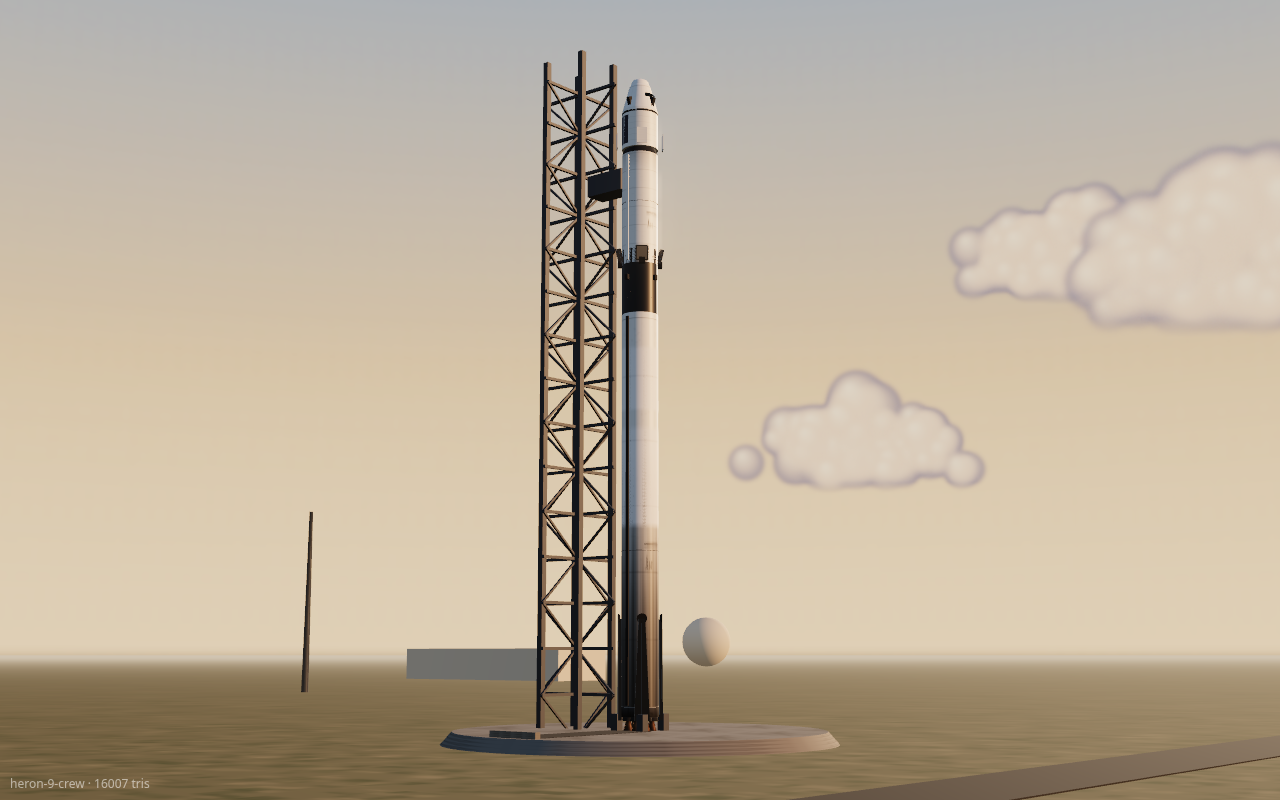
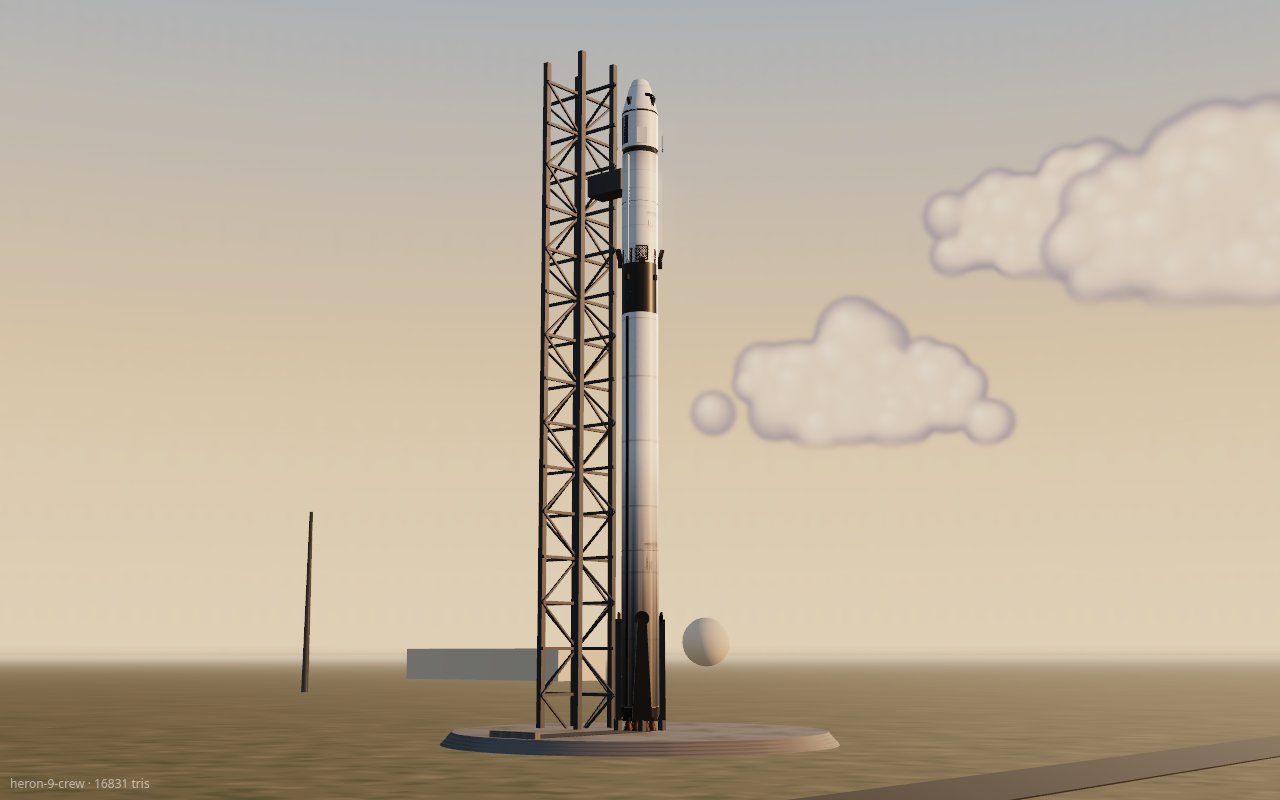
art plan #1-3: grid fins readable when backlit (metalness 0.65 + warm emissive floor), 2x cloud texture / higher min elevation, re-render heron, sparrow, catch-tower, payload, colossus heroes + backlit grid-fin check

diff --git a/gfx/vehicles/hero.html b/gfx/vehicles/hero.html
@@ -25,18 +25,18 @@ function skyTex(seed = 3) { const W = 1024, H = 512, c = document.createElement(
   const hz = x.createLinearGradient(0, H * 0.43, 0, H * 0.52); hz.addColorStop(0, 'rgba(255,220,180,0)'); hz.addColorStop(1, 'rgba(255,214,170,0.7)'); x.fillStyle = hz; x.fillRect(0, H * 0.43, W, H * 0.09);
   const t = new THREE.CanvasTexture(c); t.mapping = THREE.EquirectangularReflectionMapping; t.colorSpace = THREE.SRGBColorSpace; return t; }
 // cumulus billboards (crisp, high-res, lit tops / shaded bases) placed around the horizon
-function cloudTex(seed) { const W = 512, H = 220, c = document.createElement('canvas'); c.width = W; c.height = H; const x = c.getContext('2d'); let s = seed; const r = () => (s = (s * 16807) % 2147483647) / 2147483647;
+function cloudTex(seed) { const W = 1024, H = 440, S2 = 2, c = document.createElement('canvas'); c.width = W; c.height = H; const x = c.getContext('2d'); let s = seed; const r = () => (s = (s * 16807) % 2147483647) / 2147483647;
   // connected cumulus: many small puffs gaussian-distributed along a flat base, blurred; sunlit tops, blue-grey shaded bases
   const g2 = () => (r() + r() + r() - 1.5) / 1.5, puffs = [], base = H * 0.8;
-  for (let i = 0; i < 90; i++) { const px = W / 2 + g2() * W * 0.36, ht = 1 - Math.abs(px - W / 2) / (W * 0.5), rr = 10 + r() * 26 * ht + 6; puffs.push([px, base - rr * 0.6 - r() * ht * H * 0.45, rr]); }
-  x.filter = 'blur(3px)';
+  for (let i = 0; i < 90; i++) { const px = W / 2 + g2() * W * 0.36, ht = 1 - Math.abs(px - W / 2) / (W * 0.5), rr = (10 + r() * 26 * ht + 6) * S2; puffs.push([px, base - rr * 0.6 - r() * ht * H * 0.45, rr]); }
+  x.filter = 'blur(5px)'; // plan #2: 2x texture + proportional blur, no grain on 2 km sprites
   for (const [px, py, rr] of puffs) { x.fillStyle = 'rgba(128,124,146,0.9)'; x.beginPath(); x.arc(px, py, rr, 0, 7); x.fill(); }
   for (const [px, py, rr] of puffs) { const g = x.createRadialGradient(px - rr * 0.3, py - rr * 0.45, 0, px, py, rr); g.addColorStop(0, 'rgba(255,232,200,1)'); g.addColorStop(0.55, 'rgba(240,206,176,0.7)'); g.addColorStop(1, 'rgba(240,206,176,0)'); x.fillStyle = g; x.beginPath(); x.arc(px, py, rr, 0, 7); x.fill(); }
-  x.filter = 'none'; x.globalCompositeOperation = 'destination-out'; const cut = x.createLinearGradient(0, base - 6, 0, base + 10); cut.addColorStop(0, 'rgba(0,0,0,0)'); cut.addColorStop(1, 'rgba(0,0,0,1)'); x.fillStyle = cut; x.fillRect(0, base - 6, W, H - base + 6);
+  x.filter = 'none'; x.globalCompositeOperation = 'destination-out'; const cut = x.createLinearGradient(0, base - 12, 0, base + 20); cut.addColorStop(0, 'rgba(0,0,0,0)'); cut.addColorStop(1, 'rgba(0,0,0,1)'); x.fillStyle = cut; x.fillRect(0, base - 12, W, H - base + 12);
   const t = new THREE.CanvasTexture(c); t.colorSpace = THREE.SRGBColorSpace; return t; }
 const clouds = new THREE.Group(); scene.add(clouds);
 { let s = 5; const r = () => (s = (s * 16807) % 2147483647) / 2147483647; for (let i = 0; i < 26; i++) { const sp = new THREE.Sprite(new THREE.SpriteMaterial({ map: cloudTex(11 + i * 7), transparent: true, depthWrite: false, fog: false, opacity: 0.9 }));
-  const a = r() * Math.PI * 2, R = 3500 + r() * 3000, w = 700 + r() * 1300; sp.scale.set(w, w * 220 / 512, 1); sp.position.set(Math.cos(a) * R, R * Math.tan((3 + r() * 14) * Math.PI / 180), Math.sin(a) * R); sp.renderOrder = -1; clouds.add(sp); } }
+  const a = r() * Math.PI * 2, R = 3500 + r() * 3000, w = 1000 + r() * 1200; sp.scale.set(w, w * 440 / 1024, 1); sp.position.set(Math.cos(a) * R, R * Math.tan((6 + r() * 12) * Math.PI / 180), Math.sin(a) * R); sp.renderOrder = -1; clouds.add(sp); } }
 const sky = skyTex(); scene.background = sky; scene.environment = GX.envTexture(); scene.environmentIntensity = 0.45; // game env, dimmed: fill without flattening
 const hemi = new THREE.HemisphereLight(0xbfd4f0, 0x5a4a38, 0.35); scene.add(hemi);
 const key = new THREE.DirectionalLight(0xffc48a, 4.2); scene.add(key); scene.add(key.target); // golden-hour key

diff --git a/gfx/vehicles/kit.js b/gfx/vehicles/kit.js
@@ -14,8 +14,8 @@ export function mat(key) {
     case 'paint': { const [soot, top] = (arg || '0,0').split(',').map(Number); m = new P({ map: T.paint({ soot, sootTop: top }), roughness: 0.45, metalness: 0.0, clearcoat: 0.3, clearcoatRoughness: 0.35 }); break; }
     case 'silver': m = new S({ map: T.paint({ base: '#c9ccd0', rings: 8 }), roughness: 0.35, metalness: 0.7 }); break;
     case 'carbon': m = new P({ map: T.carbon(), color: 0x3c3c40, roughness: 0.5, metalness: 0.1, clearcoat: 0.6, clearcoatRoughness: 0.3 }); break; // clearcoat: legs catch a highlight against the dark interstage
-    case 'ti': m = new S({ color: 0xa8a29a, roughness: 0.55, metalness: 1, alphaMap: T.gridFin(), alphaTest: 0.5, side: THREE.DoubleSide }); break;
-    case 'tiframe': m = new S({ color: 0xa9a49c, roughness: 0.42, metalness: 1 }); break; // rockets-3: lighter bare titanium so grid fins read
+    case 'ti': m = new S({ color: 0xa8a29a, roughness: 0.5, metalness: 0.65, emissive: 0x2a2620, alphaMap: T.gridFin(), alphaTest: 0.5, side: THREE.DoubleSide }); break;
+    case 'tiframe': m = new S({ color: 0xa9a49c, roughness: 0.42, metalness: 0.65, emissive: 0x2a2620 }); break; // rockets-3: lighter bare titanium so grid fins read
     case 'bell': m = new S({ map: T.bell(false), roughness: 0.38, metalness: 0.9, side: THREE.DoubleSide }); break;
     case 'bellx': m = new S({ map: T.bell(true), roughness: 0.32, metalness: 0.95, side: THREE.DoubleSide }); break;
     // brushed stainless: MeshPhysical anisotropy (node material on both WebGPU and WebGL2 backends; tangents are
